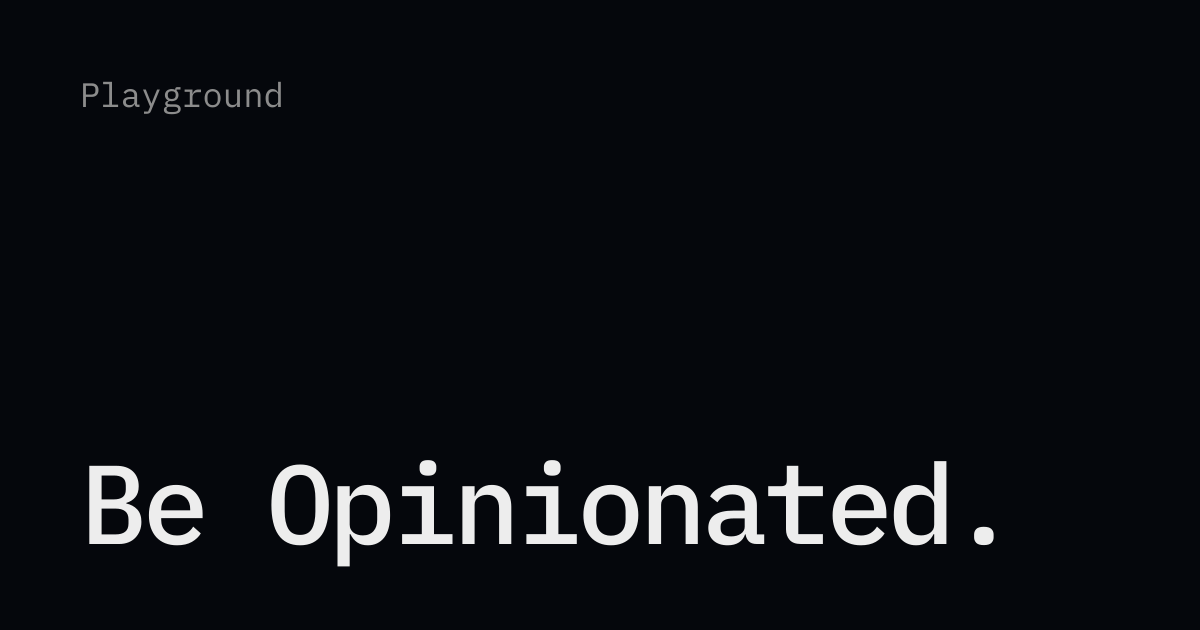
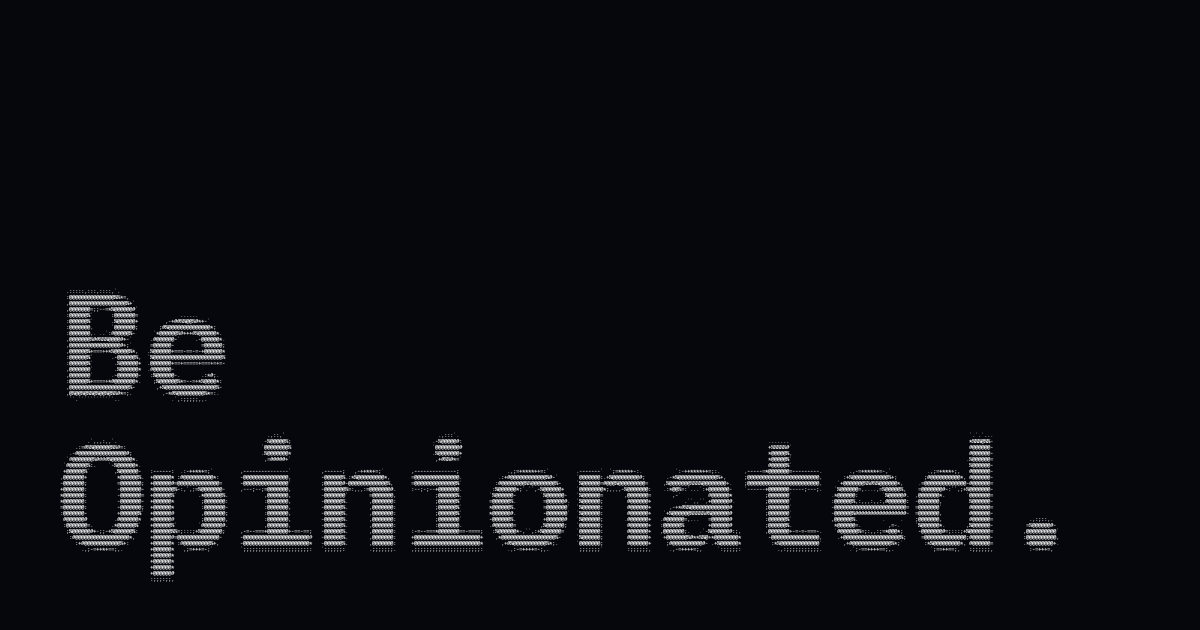
Draw every link preview in characters
Link previews now match the site: each is drawn ahead of time in the
same fine characters as the covers, and saved as a 1200x630 PNG.

- scripts/ascii-og.mjs does the drawing; scripts/make-og.mjs makes the
  pictures for the home page, Absolute Cinema and every scene.
- Scene previews are drawn from the covers, so they keep any per-scene
  treatment; tags point at public/cinema/og/<id>.png.
- The home preview is the tagline alone, set large enough to survive
  the drawing.
- The plain photo previews stay in public/cinema/og/ but are no longer
  linked.

Changed region(s): [[0.0308, 0.6937, 0.8942, 0.9349], [0.0308, 0.4524, 0.185, 0.6333], [0.0617, 0.1206, 0.2467, 0.181]]

diff --git a/src/modules/cinema/scenes.ts b/src/modules/cinema/scenes.ts
@@ -8,8 +8,9 @@ import made from "./covers.json";
  *
  * To give a scene its own cover, put a frame from the video in `covers/`
  * (named after the slug, or its position in this list) and run
- * `python3 scripts/make-covers.py`. Until then the cover is drawn from the
- * video's YouTube thumbnail.
+ * `python3 scripts/make-covers.py`, then `node scripts/make-og.mjs` for its
+ * link preview. Until then the cover is drawn from the video's YouTube
+ * thumbnail.
  */
 export type Scene = {
   /** The YouTube video id: the part after `v=` in its link. */
@@ -98,10 +99,13 @@ export const coverOf = (scene: Scene) =>
     ? `/cinema/${scene.id}.jpg`
     : `https://i.ytimg.com/vi/${scene.id}/mqdefault.jpg`;
 
-/** The picture shown when a scene's link is shared. */
+/**
+ * The picture shown when a scene's link is shared: its cover, already drawn
+ * in characters by scripts/make-og.mjs.
+ */
 export const previewOf = (scene: Scene) =>
   framed.has(scene.id)
-    ? `/cinema/og/${scene.id}.jpg`
+    ? `/cinema/og/${scene.id}.png`
     : `https://i.ytimg.com/vi/${scene.id}/hqdefault.jpg`;
 
 export const pathOf = (scene: Scene) => `/absolute-cinema/${scene.slug}`;

diff --git a/src/app/absolute-cinema/page.tsx b/src/app/absolute-cinema/page.tsx
@@ -1,9 +1,9 @@
 import type { Metadata } from "next";
 import { CinemaPage } from "@/modules/cinema/cinema-page";
 
-// The picture is the module's own, set on the dark at link-preview size by
-// scripts/make-og.mjs.
-const picture = { url: "/og/absolute-cinema.jpg", width: 1200, height: 630, alt: "Absolute Cinema" };
+// The picture is the module's own, set on the dark at link-preview size and
+// drawn in characters by scripts/make-og.mjs.
+const picture = { url: "/og/absolute-cinema.png", width: 1200, height: 630, alt: "Absolute Cinema" };
 
 const description = "Artifacts of nostalgia";
 

diff --git a/scripts/make-covers.py b/scripts/make-covers.py
@@ -14,8 +14,9 @@ For every frame it finds, this:
   2. crops what is left to 16:9, the shape of the player and of four of the
      five original frames, so the set loses as little picture as possible,
   3. writes `public/cinema/<id>.jpg` (1600x900), which the site draws in ASCII,
-  4. writes `public/cinema/og/<id>.jpg` (1200x630), the picture shown when a
-     scene's link is shared,
+  4. writes `public/cinema/og/<id>.jpg` (1200x630), the plain photograph at
+     link-preview size. (The preview actually served is the cover drawn in
+     characters: run `node scripts/make-og.mjs` afterwards to make it.)
   5. records the scene in `src/modules/cinema/covers.json`, which is how the
      site knows to use it instead of the YouTube thumbnail.
 

diff --git a/README.md b/README.md
@@ -35,14 +35,20 @@ the list) and run:
 python3 scripts/make-covers.py
 ```
 
-It trims any black bars, crops every frame to 16:9, and writes the cover the
-site draws in ASCII (`public/cinema/<id>.jpg`) and the link-preview picture
-(`public/cinema/og/<id>.jpg`). Until a scene has its own frame, both come from
-the video's YouTube thumbnail.
+It trims any black bars, crops every frame to 16:9 and writes the cover the
+site draws in ASCII (`public/cinema/<id>.jpg`). Until a scene has its own
+frame, its cover and link preview come from the video's YouTube thumbnail.
 
-The home page and the Absolute Cinema page have no frame of their own; their
-link-preview pictures are made by `node scripts/make-og.mjs` and kept in
-`public/og/`.
+Link previews are drawn in characters too, ahead of time, because a preview
+has to be a plain picture file:
+
+```bash
+node scripts/make-og.mjs
+```
+
+It writes one for the home page, one for Absolute Cinema and one per scene
+(`public/og/`, `public/cinema/og/<id>.png`). Run it after adding a scene's
+cover. It needs IBM Plex Mono installed.
 
 Link previews need the site's full address: set `NEXT_PUBLIC_SITE_URL` when
 deploying. It is fixed at build time, so with two domains on one deployment
